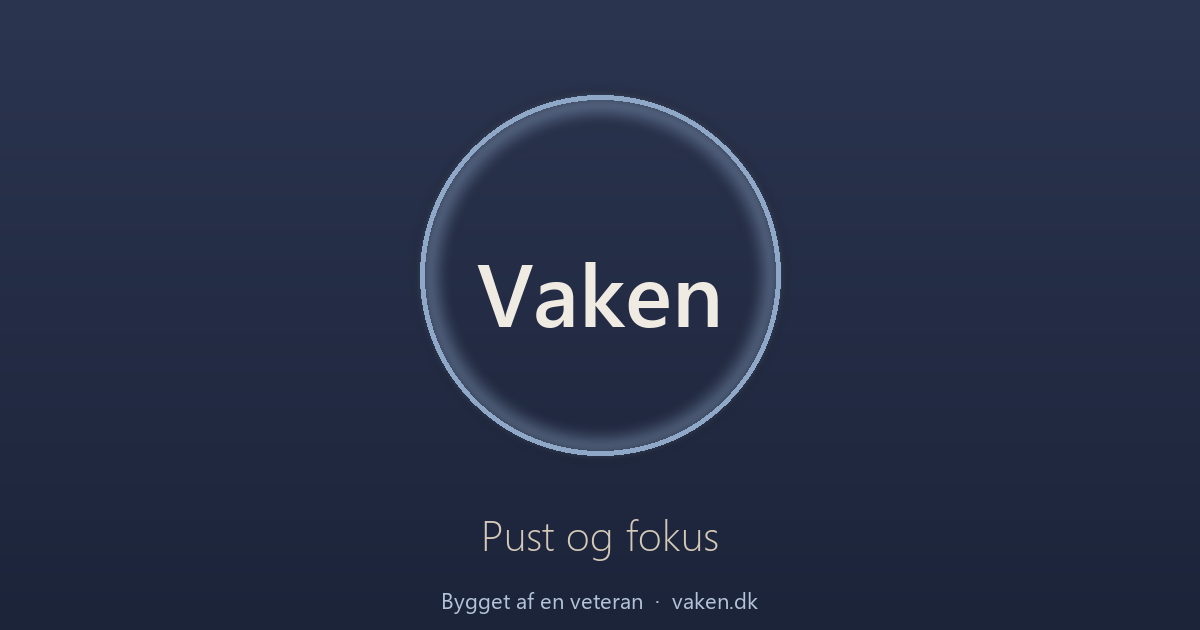
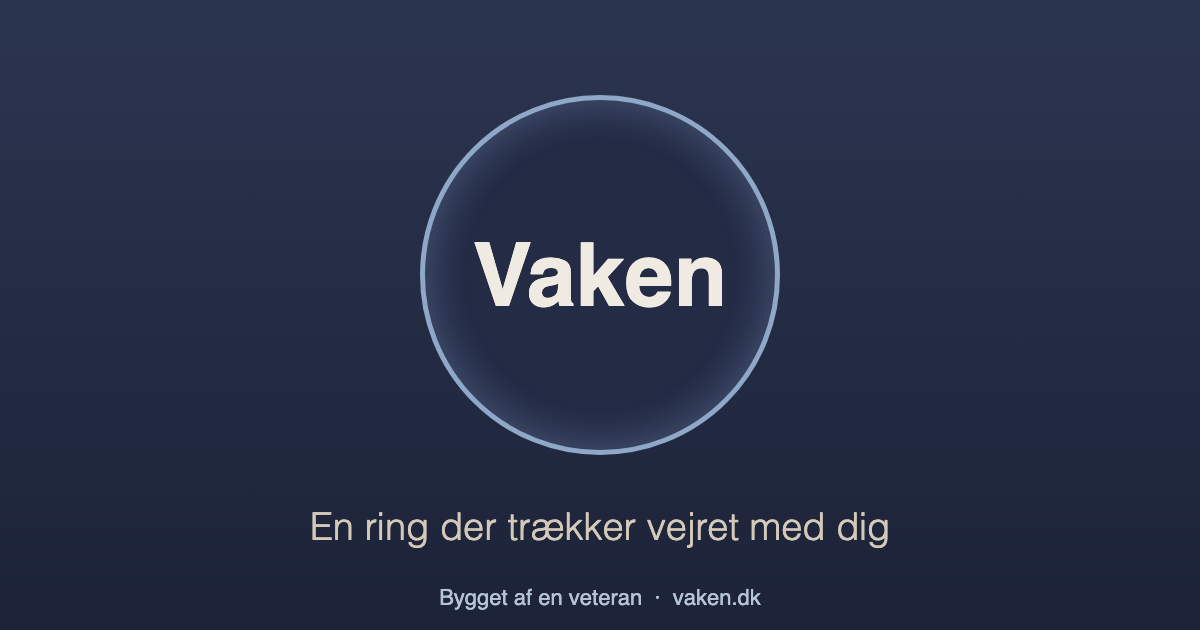
fix(og): replace rejected tagline in share image

diff --git a/tools/generate_og_image.py b/tools/generate_og_image.py
@@ -90,7 +90,7 @@ bh = bbox[3] - bbox[1]
 draw_centered(brand, cy - bh // 2 - 10, font_brand, BIRCH)
 
 # Tagline — under the ring
-draw_centered("Pust og fokus", cy + radius + 50, font_tag, SAND)
+draw_centered("En ring der trækker vejret med dig", cy + radius + 50, font_tag, SAND)
 
 # Credit — bottom
 draw_centered("Bygget af en veteran  ·  vaken.dk", H - 45, font_credit, (180, 195, 215))
